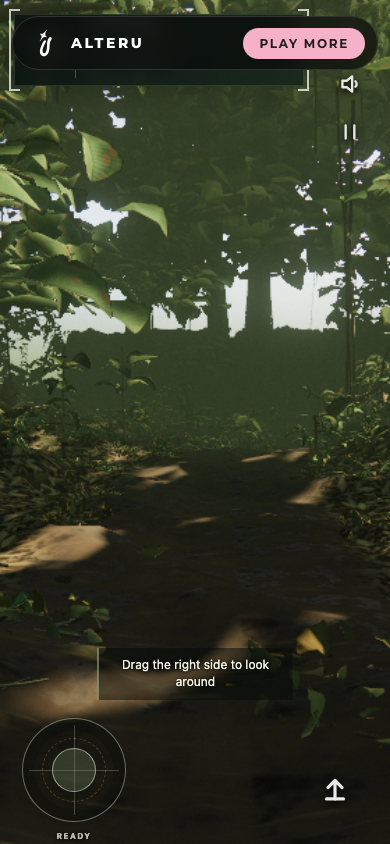
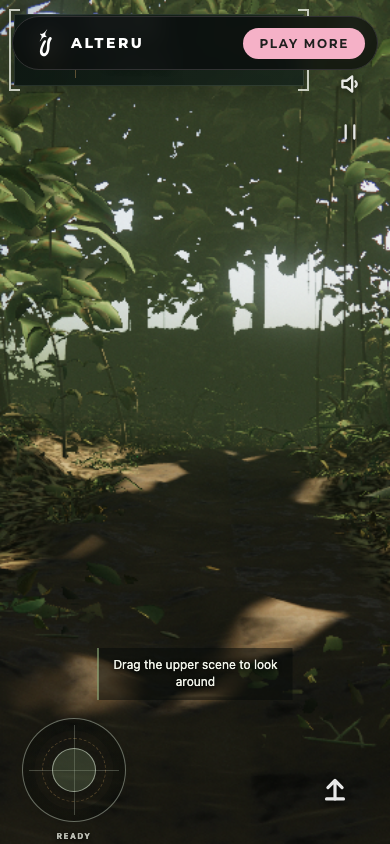
improve: expand mobile camera drag zone

diff --git a/src/ui.css b/src/ui.css
@@ -75,7 +75,7 @@ button { font: inherit; -webkit-tap-highlight-color: transparent; touch-action: 
 .jt-chapter-nav__item:disabled { color: rgba(240,243,233,.28); }
 
 .jt-hud { position: fixed; inset: 0; z-index: 10; pointer-events: none; color: var(--jt-ink); }
-.jt-hud__top { position: absolute; top: max(14px, env(safe-area-inset-top)); left: 14px; right: 14px; display: grid; grid-template-columns: minmax(0, 290px) 48px; align-items: start; justify-content: space-between; gap: 10px; }
+.jt-hud__top { position: absolute; z-index: 5; top: max(14px, env(safe-area-inset-top)); left: 14px; right: 14px; display: grid; grid-template-columns: minmax(0, 290px) 48px; align-items: start; justify-content: space-between; gap: 10px; pointer-events: none; }
 .jt-bracket { position: relative; }
 .jt-bracket::before,.jt-bracket::after { content: ""; position: absolute; z-index: 2; top: -5px; bottom: -5px; width: 9px; pointer-events: none; }
 .jt-bracket::before { left: -5px; border-left: 2px solid rgba(240,243,233,.78); border-top: 2px solid rgba(240,243,233,.78); border-bottom: 2px solid rgba(240,243,233,.78); }
@@ -125,7 +125,7 @@ button { font: inherit; -webkit-tap-highlight-color: transparent; touch-action: 
 
 .jt-route-cue { position: absolute; z-index: 4; left: 50%; bottom: calc(max(18px, env(safe-area-inset-bottom)) + 132px); width: min(72vw, 300px); color: rgba(240,243,233,.88); font-size: 12px; font-weight: 600; line-height: 1.4; letter-spacing: .04em; pointer-events: none; transform: translateX(-50%); text-align: center; text-shadow: 0 2px 10px #000, 0 1px 3px #000; animation: jt-route-cue-in 220ms var(--jt-ease); }
 
-.jt-look-zone { position: absolute; z-index: 1; top: 72px; right: 0; bottom: 0; width: 62%; pointer-events: auto; touch-action: none; }
+.jt-look-zone { position: absolute; z-index: 1; inset: 0 0 auto; width: 100%; height: 68%; pointer-events: auto; touch-action: none; }
 .jt-ghost { position: absolute; z-index: 4; width: 44px; height: 44px; pointer-events: none; transform: translate(-50%,-50%); filter: drop-shadow(0 1px 1px #172018) drop-shadow(0 4px 10px rgba(0,0,0,.42)); }
 .jt-ghost__finger,.jt-ghost__finger svg { display: block; width: 100%; height: 100%; }
 .jt-ghost__finger { color: rgba(240,243,233,.9); }

diff --git a/src/i18n.js b/src/i18n.js
@@ -38,7 +38,7 @@ const copy = {
     paceSlow: 'SLOW WALK',
     paceWalk: 'WALK',
     paceFast: 'FAST WALK',
-    lookHint: 'Drag the right side to look around',
+    lookHint: 'Drag the upper scene to look around',
     moveHint: 'Use the left circle to walk',
     mission: 'Follow the water · notice what does not belong to the forest',
     chapter1Title: 'The Trail Remembers',
@@ -157,7 +157,7 @@ const copy = {
     paceSlow: '慢走',
     paceWalk: '步行',
     paceFast: '快走',
-    lookHint: '在右侧拖动，观察四周',
+    lookHint: '拖动上方画面，观察四周',
     moveHint: '推动左侧圆环，沿小径前行',
     mission: '沿着水声前进 · 留意不属于森林的形状',
     chapter1Title: '林径的记忆',

diff --git a/src/main.js b/src/main.js
@@ -654,9 +654,9 @@ function runMoveGhost() {
 
 function runLookGhost() {
   if (userInteracted || !game || matchMedia('(prefers-reduced-motion: reduce)').matches) return;
-  const startX = innerWidth * 0.61;
-  const startY = innerHeight * 0.46;
-  const endX = innerWidth * 0.83;
+  const startX = innerWidth * 0.30;
+  const startY = innerHeight * 0.40;
+  const endX = innerWidth * 0.70;
   let progress = 0;
   let previousFrame = performance.now();
   let previousX = startX;

diff --git a/_qa/ui/REPORT.md b/_qa/ui/REPORT.md
@@ -18,6 +18,7 @@
 | First trace advance signal | `platform-layout-clue-signal-390x844.png` | — | Pass; one-shot 38 m preview and positional cue asserted |
 | Off-trail recovery | `platform-layout-route-recovery-390x844.png` | — | Pass; 3.2 m lateral displacement yields correct view-relative direction |
 | Natural touch segment | `platform-layout-natural-input-segment-390x844.png` | — | Pass; real touch events transition from walk to fast walk and rotate camera without teleport/auto-walk |
+| Full-width look zone | `platform-layout-look-zone-hint-390x844.png` | `platform-layout-look-zone-hint-320x568.png` | Pass; upper 68% spans the viewport, left/centre/right drags rotate, lower controls and map button do not leak, and two-finger move + look remains independent |
 | Reduced look blur | `platform-layout-look-motion-low-blur-390x844.png` | `platform-layout-look-motion-low-blur-320x568.png` | Pass; low tier is 4 taps / 0.22-frame shutter and path edges remain readable during drag |
 | Look settle | `platform-layout-look-settled-low-blur-390x844.png` | — | Pass; matched frame returns to a crisp stationary image after input release |
 | Ghost look demo | `platform-layout-ghost-look-390x844.png` | — | Pass; finger and real camera motion visible together |
@@ -27,6 +28,14 @@
 | External guest | `external-guest-entry-preview-motion-390x844.png`, `external-guest-field-hud-390x844.png`, `external-guest-field-map-390x844.png` | — | Pass; managed CTA remains visible, lower gameplay controls stay usable, and the opened map retains its close control and objective beneath the external-only overlay |
 
 ## Findings and fixes
+
+### P1 — Right-only look input felt indistinguishable from a frozen camera
+
+- Evidence: the previous `62%`-wide right-side hit region and the user's online interaction report.
+- Observation: a drag beginning on the left or centre of the scene produced no response even though those areas looked identical to the active right side.
+- Impact: players could reasonably conclude that camera rotation was broken before discovering an invisible boundary.
+- Fix: expanded the camera drag surface to the full width of the upper `68%` of the viewport, moved the real HUD buttons above it, and reserved the lower `32%` for movement, jump and hand rest. The onboarding hand now crosses the scene centre and the bilingual prompt says to drag the upper scene rather than the right side.
+- Recheck: at both 390×844 and 320×568, real touch drags from left, centre and right changed yaw by `0.15–0.22 rad`; the lower-zone and map-button leakage were exactly `0`. A simultaneous joystick + camera gesture retained `75–92%` forward input while rotating the view.
 
 ### P1 — Framed action controls interrupted the rainforest scene
 
@@ -141,7 +150,7 @@
 
 - Observation: the initial look hint disappeared after the first camera drag.
 - Impact: a new player could discover observation but not forward movement.
-- Fix: onboarding is now sequential: right-side look → left-circle move → dismiss.
+- Fix: onboarding is now sequential: upper-scene look → left-circle move → dismiss.
 - Recheck: onboarding now drives the real `Walker.lookBy()` and analogue movement APIs. `platform-layout-ghost-look-390x844.png` shows the shared finger while the forest has real camera-motion blur; slow-frame progress is capped so the demo cannot skip its visible middle state.
 
 ### P1 — Observation projection used half the intended screen radius

diff --git a/doc/visual.md b/doc/visual.md
@@ -154,14 +154,14 @@
 ### Exploring
 
 - 玩家问题：往哪里走、怎样移动？
-- 主焦点：道路和场景；左摇杆同时选择方向与速度、右拖拽视角；跳跃为次动作。
+- 主焦点：道路和场景；左摇杆同时选择方向与速度、上方场景全宽拖动视角；跳跃为次动作。
 - 常驻信息：调查牌显示章节、地标、路线和线索；右侧三个无框白色图标提供地图、静音和暂停。
 - 观察切片：进入当前证据范围后，中心出现 56 px 缺口观察环；环只用暖白/苔藓描边、无玻璃底板，每次记录更新顶部“线索 n/3”，三条完成后变为稳定暖白。
 - 远距预告：进入第一石迹 `38 m` 范围时只让顶部线索菱形呼吸一次，并在顶部安全区下显示 `3.2 s` 场景化文字；不出现发光描边或悬浮目标图标。
 - 防卡提示：在线索范围停留 `4.5 s` 仍未对准时，观察环外沿显示一枚方位短刻度，并明确提示寻找“带金属圆环的直立石碑”；它只提供方向，不覆盖或框选答案。
 - 偏航恢复：离开泥土中心 `1.2 s` 后，在触控区上方显示一行“较暗的小径在左/右侧”；回到道路后同帧淡出，不与观察文字同时出现。
 - 观察反馈：对准时圆环在 `120 ms` 后开始收束，偏离先保留 `0.35 s` 再回退；成功文字位于顶部安全区以下、画面中轴上方，不遮挡触控区和道路近景。
-- 引导：幽灵手势先演示右侧拖动，再演示左侧移动；玩家完成对应动作后永久消失。
+- 引导：幽灵手势横跨上方场景中线演示自由拖动，再演示左侧移动；提示明确写“拖动上方画面”，玩家完成对应动作后永久消失。
 - 本章有三条证据；顶部只显示当前章节地点和三枚证据符号，不显示四章总进度，避免 HUD 变成任务面板。
 
 ### Map
@@ -201,7 +201,7 @@
 | 入口场景就绪 | 真实画面淡入、按钮启用 | 3.6 s 低速观察后冻结 | 保持静音 | 2 | 点击后无缝恢复 |
 | 点击进入 | 按钮同帧压缩、入口层淡出 | HUD 出现，实时渲染与控制接管 | 解锁环境音 | 2 | 进入探索 |
 | 摇杆按下 | 内核同帧跟随、步态文字更新 | 位移连续选择慢走/步行/快走 | 脚步按真实步态触发 | 1 | 松手 180 ms 回中 |
-| 右侧拖动 | 同帧改变视角 | 自由观察 | 环境声场同步旋转 | 1 | 松手停止 |
+| 上方场景拖动 | 同帧改变视角 | 左/中/右空白区域均可自由观察 | 环境声场同步旋转 | 1 | 松手停止 |
 | 跳跃 | 按钮压缩、身体下沉后起跳 | 抛物线跳跃 | 短促起跳/落地 | 2 | 落地恢复 |
 | 推至外圈 | 分界刻度转为氧化绿、显示“快走” | 速度平滑升至 3.10 m/s | 脚步频率与风声提高 | 2 | 拉回中圈连续降速 |
 | 打开地图 | 工具槽压缩、折叠纸展开 | 世界与观察计时暂停，实时位置/线索入图 | 环境音平滑挂起 | 2 | 关闭后原地恢复 |

diff --git a/doc/technical.md b/doc/technical.md
@@ -65,7 +65,7 @@
 
 ### 输入、音频与响应式
 
-移动端左摇杆半径 52 px，右侧拖动观察，跳跃使用 Pointer Events。`src/player/gait.js` 的 `analogTravelSpeed()` 把 `0–12%` 设为死区、`12–62%` 平滑映射至 `1.45 m/s` 步行、`62–100%` 平滑映射至 `3.10 m/s` 快走；移动端没有独立加速按钮。桌面保留 Pointer Lock、WASD、Shift、Space，并用 M 切换地图。路径辅助只修正明确前进且距中心 7.5 米内的移动方向，不旋转相机。离路 2.4 米持续 1.2 秒显示恢复方向，回到 1.5 米内隐藏。
+移动端左摇杆半径 52 px；镜头 Pointer 区域覆盖视口上方 `68%` 的全宽场景，不再限制在右半屏。顶部 HUD 容器位于更高层，但只有地图、声音和暂停三个按钮恢复 pointer events；视口下方 `32%` 不接管镜头，专供摇杆、跳跃与手掌停放。镜头区和摇杆分别捕获自己的 `pointerId`，所以双指移动与观察可并行。`src/player/gait.js` 的 `analogTravelSpeed()` 把 `0–12%` 设为死区、`12–62%` 平滑映射至 `1.45 m/s` 步行、`62–100%` 平滑映射至 `3.10 m/s` 快走；移动端没有独立加速按钮。桌面保留 Pointer Lock、WASD、Shift、Space，并用 M 切换地图。路径辅助只修正明确前进且距中心 7.5 米内的移动方向，不旋转相机。离路 2.4 米持续 1.2 秒显示恢复方向，回到 1.5 米内隐藏。
 
 折叠地图不创建第二套 Three.js 场景。`src/main.js` 在打开地图时读取当前章节 `Trail.samples`，每 8 个采样点取一点，在固定 SVG 画框内用统一米制比例投影真实 `x/z`；世界 `-Z` 固定朝北。路线底线、已走路线和通行带共用这条动态 path。玩家使用 `walker.pos.x/z`，证据优先使用 `observationAnchors` 的真实坐标，5 个地标使用 `Trail.pointAt()` 与 HUD 相同的 `0.02 / 0.27 / 0.74 / 0.86 / 0.955` 阈值。方向针将相机 yaw 与世界/纸面路径切线组合；下一地标距离由真实 `Trail.length × 进度差` 估算；100 m 比例尺与路线使用相同缩放。林冠区、遗迹平面、水池、网格和等高线仍是低对比语义参照，不代表逐棵植被或逐块地形测绘。地图 DOM 只在打开时更新，关闭后没有逐帧开销。
 

diff --git a/doc/requirements.md b/doc/requirements.md
@@ -9,7 +9,7 @@
 - 玩家：AlterU 信息流中的移动端玩家，也支持桌面浏览器。
 - 单章时长：第一章 `7–9 min`，第二、三章各 `6–8 min`，第四章 `8–10 min`。
 - 完整主线：`28–35 min`，章节独立解锁，不要求一次完成。
-- 核心交互：左侧模拟摇杆连续控制慢走到快走、右侧观察、跳跃；勘探地图与设置收纳进右侧无框工具图标组。
+- 核心交互：左侧模拟摇杆连续控制慢走到快走、拖动屏幕上方约 `68%` 的场景观察、跳跃；勘探地图与设置收纳进右侧无框工具图标组。
 - 情绪承诺：从“发现一块不自然的石碑”逐步扩大到“看懂一套隐藏在雨林中的古代水文机器”。
 - 主要目标：每章完成 3 条主线证据并形成章节结论；通关后开放该章调查模式。
 - 目标平台：AlterU WebView、移动 Safari/Chrome、桌面浏览器；竖屏主验收为 390×844 与 320×568。
@@ -103,7 +103,7 @@
 ## 4. Controls
 
 - 移动端左摇杆：`pointerdown` 捕获，最大拖动半径 `52 px`，`pointermove` 同时更新方向与 `0–1` 位移幅度，`pointerup/cancel` 归零；摇杆旁用文字状态表达慢走/步行/快走，不只依赖颜色。
-- 移动端右侧观察区：单指拖动改变 yaw/pitch；每 1 CSS px 约 `0.0032 rad`，俯仰限制 `-1.35–1.35 rad`。
+- 移动端观察区：屏幕上方 `68%` 的场景区域横跨全宽，单指从左、中、右任意空白位置拖动均改变 yaw/pitch；每 1 CSS px 约 `0.0032 rad`，俯仰限制 `-1.35–1.35 rad`。顶部地图/声音/暂停按钮保持更高交互层级，底部 `32%` 不接管镜头，以保护摇杆与跳跃。
 - 跳跃：44×44 px 以上按钮使用 Pointer Events，落地时一次触发。
 - 快走：摇杆位移超过 `62%` 自动连续过渡，松回中圈即恢复步行；快走时不累积观察。
 - 观察：不增加按钮；将目标保持在中心观察区自动累积。
